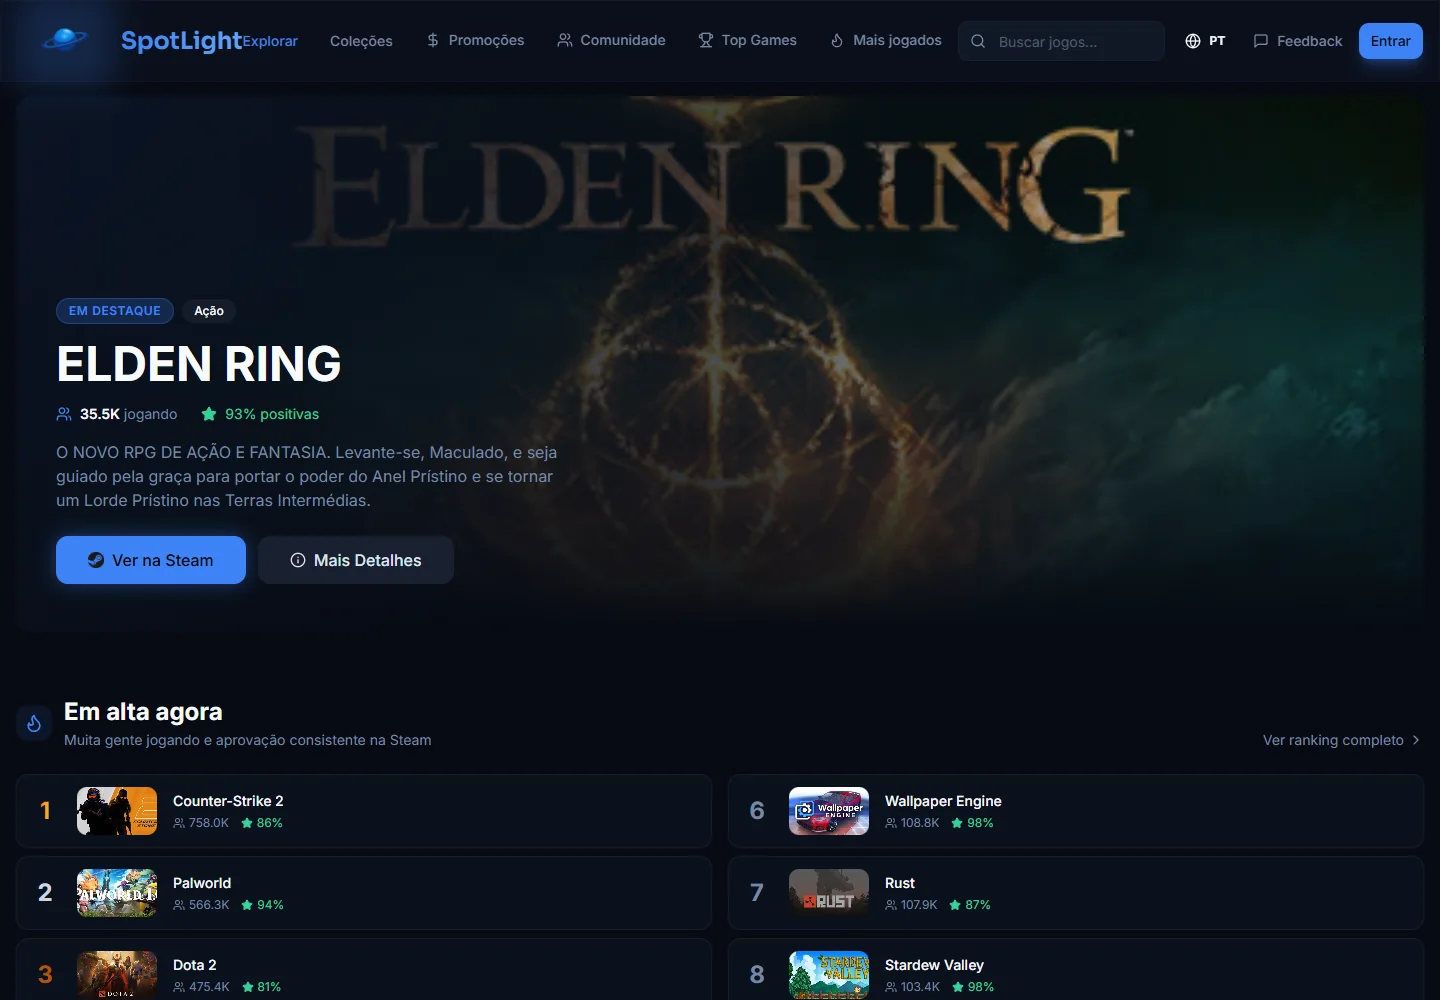
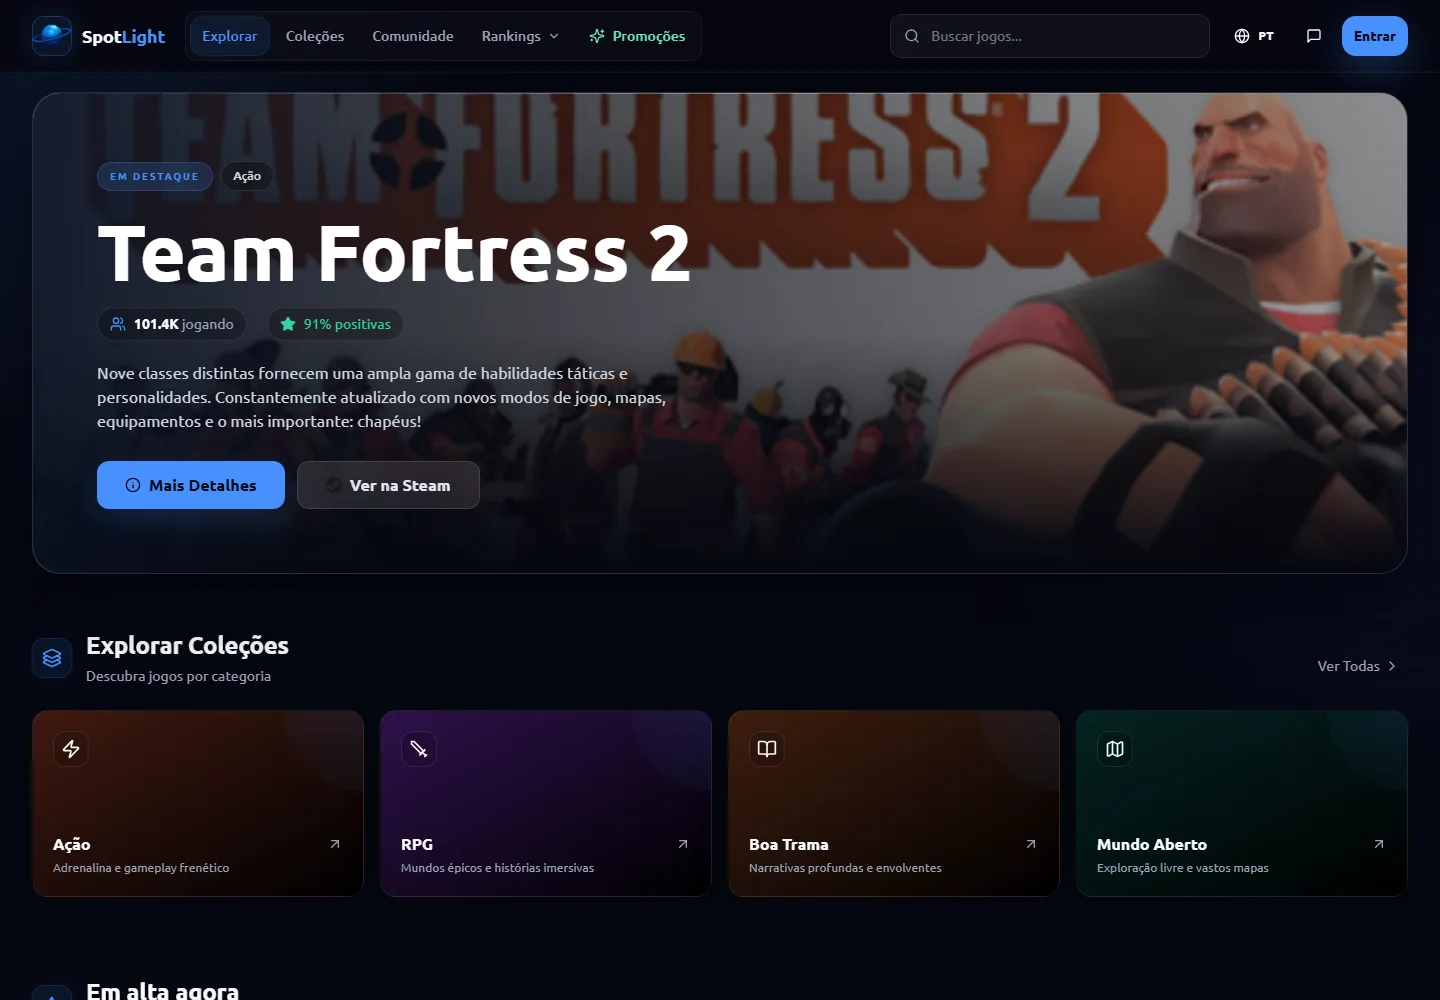
docs: update README content and enhance screenshot descriptions

diff --git a/README.md b/README.md
@@ -32,7 +32,7 @@
 <br>
 
 <a href="https://spot-light-xi.vercel.app">
-  <img src="docs/screenshots/explorar.webp" alt="Página Explorar do SpotLight com jogos em destaque, coleções e rankings" width="100%">
+  <img src="docs/screenshots/explorar.webp" alt="Página Explorar do SpotLight com destaque editorial, coleções e jogos em alta" width="100%">
 </a>
 
 </div>
@@ -41,32 +41,33 @@
 
 Steam, Xbox e PlayStation guardam partes diferentes da nossa vida nos games. Para lembrar o que jogou, quanto tempo investiu ou quais jogos completou, normalmente é preciso consultar vários perfis.
 
-Eu criei o **SpotLight** para reunir essa história em um só lugar. A aplicação importa a biblioteca da Steam, organiza jogos de diferentes plataformas e transforma esses dados em um perfil gamer público e compartilhável.
+Eu criei o **SpotLight** para reunir essa história em um só lugar. A aplicação importa a biblioteca da Steam, organiza jogos de diferentes plataformas e transforma esses dados em um perfil gamer público, visual e compartilhável.
 
-Além da biblioteca pessoal, o SpotLight oferece busca, rankings, promoções, reviews e recomendações para ajudar o usuário a escolher o próximo jogo.
+Além da biblioteca pessoal, o SpotLight combina destaques editoriais, coleções temáticas, rankings, promoções, reviews e recomendações para ajudar o usuário a escolher o próximo jogo.
 
 > [!NOTE]
 > A sincronização automática da Steam está disponível. Jogos e platinas de Xbox e PlayStation podem ser cadastrados manualmente enquanto as integrações oficiais continuam em desenvolvimento.
 
 ## Principais funcionalidades
 
-| Área               | O que o SpotLight oferece                                                  |
-| ------------------ | -------------------------------------------------------------------------- |
-| **Biblioteca**     | Importação da Steam, horas jogadas, status, favoritos e jogos platinados   |
-| **Perfil**         | Página pública com avatar, bio, jogo favorito, biblioteca e vitrines       |
-| **Descoberta**     | Busca, coleções, promoções e rankings atualizados com dados da Steam       |
-| **Comunidade**     | Amigos, comentários, reviews e listas públicas compartilháveis             |
-| **Personalização** | Privacidade por perfil e jogo, horas manuais e identificação da plataforma |
-| **Alertas**        | Notificação por e-mail quando um jogo atinge o preço desejado              |
-| **Idiomas**        | Interface em português, inglês e espanhol                                  |
+| Área               | O que o SpotLight oferece                                                                       |
+| ------------------ | ----------------------------------------------------------------------------------------------- |
+| **Biblioteca**     | Importação da Steam, horas jogadas, status, favoritos e jogos platinados                        |
+| **Perfil**         | Página pública com nível, estatísticas, biblioteca, platinas, reviews, amigos e comentários     |
+| **Descoberta**     | Destaque editorial, coleções por categoria, lançamentos, jogos aclamados, busca e recomendações |
+| **Rankings**       | Top 10 do SpotLight e lista dos jogos mais ativos da Steam, em grade ou lista                   |
+| **Comunidade**     | Seguidores, amizades, comentários, reviews e listas públicas compartilháveis                    |
+| **Promoções**      | Ofertas da Steam e alertas por e-mail quando um jogo atinge o preço desejado                    |
+| **Personalização** | Privacidade por perfil e jogo, horas manuais, plataforma, idioma e preferência de layout        |
+| **Idiomas**        | Interface em português, inglês e espanhol                                                       |
 
 ## Demonstração
 
 <table>
   <tr>
     <td width="50%">
-      <a href="https://spot-light-xi.vercel.app/u/aeb">
-        <img src="docs/screenshots/perfil-publico.webp" alt="Perfil público do SpotLight">
+      <a href="https://spot-light-xi.vercel.app/u/rafa">
+        <img src="docs/screenshots/perfil-publico.webp" alt="Perfil público do SpotLight com estatísticas, abas e jogos platinados">
       </a>
     </td>
     <td width="50%">
@@ -78,6 +79,16 @@ Além da biblioteca pessoal, o SpotLight oferece busca, rankings, promoções, r
   <tr>
     <td align="center"><strong>Perfil público</strong></td>
     <td align="center"><strong>Top Games</strong></td>
+  </tr>
+  <tr>
+    <td colspan="2">
+      <a href="https://spot-light-xi.vercel.app/mais-jogados">
+        <img src="docs/screenshots/mais-jogados.webp" alt="Ranking dos jogos mais jogados da Steam">
+      </a>
+    </td>
+  </tr>
+  <tr>
+    <td colspan="2" align="center"><strong>Mais jogados da Steam</strong></td>
   </tr>
 </table>
 
